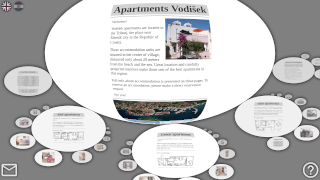
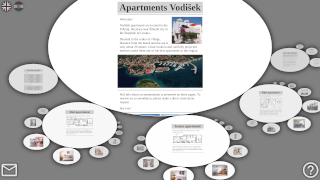
Add files via upload

diff --git a/case-study.md b/case-study.md
@@ -1,6 +1,7 @@
 ## case studies
 
-- We built a promotional site for an accommodation facility:
+- We built a promotional site for an accommodation facility.
+    - ![](media/ssh-320-apv.png)
     - The site includes detailed accommodation object description, featuring three accommodation units. Top page includes the photo of the entire object and a short description of the object. Descendent pages include each apartment unit description, unit plan, and unit inerior photos - roughly about ten photos per each unit.
     - We updated the index page with links for mailing and choosing site translation. Two languages are available: English and Croatian.
     - We attach a booking calendar to each apartment, so that customers may choose between available dates to book for vacation by direct email correspondence to the accommodation staff. On successful agreement, accommodation stuff alters each apartment booking calendar to be synchronized with actual guest reservations.
@@ -9,13 +10,14 @@
     - The site has been tested with desktop Chrommium, Edge, Firefox, Opera, mobile Chrome and mobile Samsung web browsers.
     - Online web address of this site is: [www.apartments-vodisek-tribunj.com](https://www.apartments-vodisek-tribunj.com).
 
-- We built a simple s-expression visualization tool:
-    - The HTML application is consisted of two panes: left pane includes input prompt; right pane includes visualization area.
-    - Input prompt resembles usual terminal input built of `textarea` elements, while visualization pane resembles Fract-exp system waiting for data. Input prompt accepts possibly multiline s-expressions.
-    - We implemented accessing history of input by pressing up and down arrows. After hitting `enter` at the input prompt, inputted s-expression is checked for validity. Valid s-expressions are fed to visualization pane. In a case of unmatching braces, an s-expression error is reported.
-    - We implemented a custom oval renderer to paint s-expression substructures in designated ovals.
+- We built a visualization tool for OpenCog: CogProtoLab.
+    - ![](media/ssh-320-cogprotolab.png)
+    - OpenCog project aims to reach general artificial intelligence state, and it is work-in-progress kind of project. It uses Atomspace as its graph database and knowledge base format, and CogProtoLab aims to visualize the knowledge base. We are hoping to help newbies to get familiar with OpenCog command system.
+    - The application sends commands to CogServer over php telnet, and prints output in the left pane, while the visualization is shown on the right pane.
+    - Left pane also holds a little script manager, to help sending commands to CogServer.
+    - We implemented a custom oval renderer in the right pane to paint s-expression substructures extracted from AtomSpace by a custom visualization command.
     - Messages between the two `iframe` panes - from input prompt to visualization section - are sent using `postMessage` javascript functionality. We updated Fract-exp source code by `redefineData` event message to restructure the oval system on the fly, when new input arrives.
-    - The HTML application is tested on desktop Chrommium, Firefox, and Opera web browsers. The application works straight from the local file system without need for installing a web server.
-    - Online web address of this application is: [contrast-zone.github.io/atomizer](https://contrast-zone.github.io/atomizer).
-    
+    - The HTML application is tested on desktop Chrommium, Firefox, and Opera web browsers. To properly function, the application needs an OpenCog installation, along with a http server and php scripting service.
+    - Project home of this application is at: [github.com/opencog/cogprotolab](https://github.com/opencog/cogprotolab).
+
 *(We are looking for exposure of other case studies, also. If you would like your example to appear in this file, please send us a GitHub pull request.)*

diff --git a/README.md b/README.md
@@ -30,9 +30,9 @@ This software is released under [conditional Creative Commons Attribution 4.0 In
 
 ### 3.2. case studies
 
-![](media/ssh-320-apv.png) ![](media/ssh-320-atomizer.png)
+![](media/ssh-320-apv.png) ![](media/ssh-320-cogprotolab.png)
 
-We built a couple of independent web sites using Fract-exp. To get info about these particular case studies, please refer to [this document](case-study.md).
+We built an independent web site and some applications using Fract-exp. To get info about these particular case studies, please refer to [this document](case-study.md).
 
 ### 3.3. giving it a try
 
